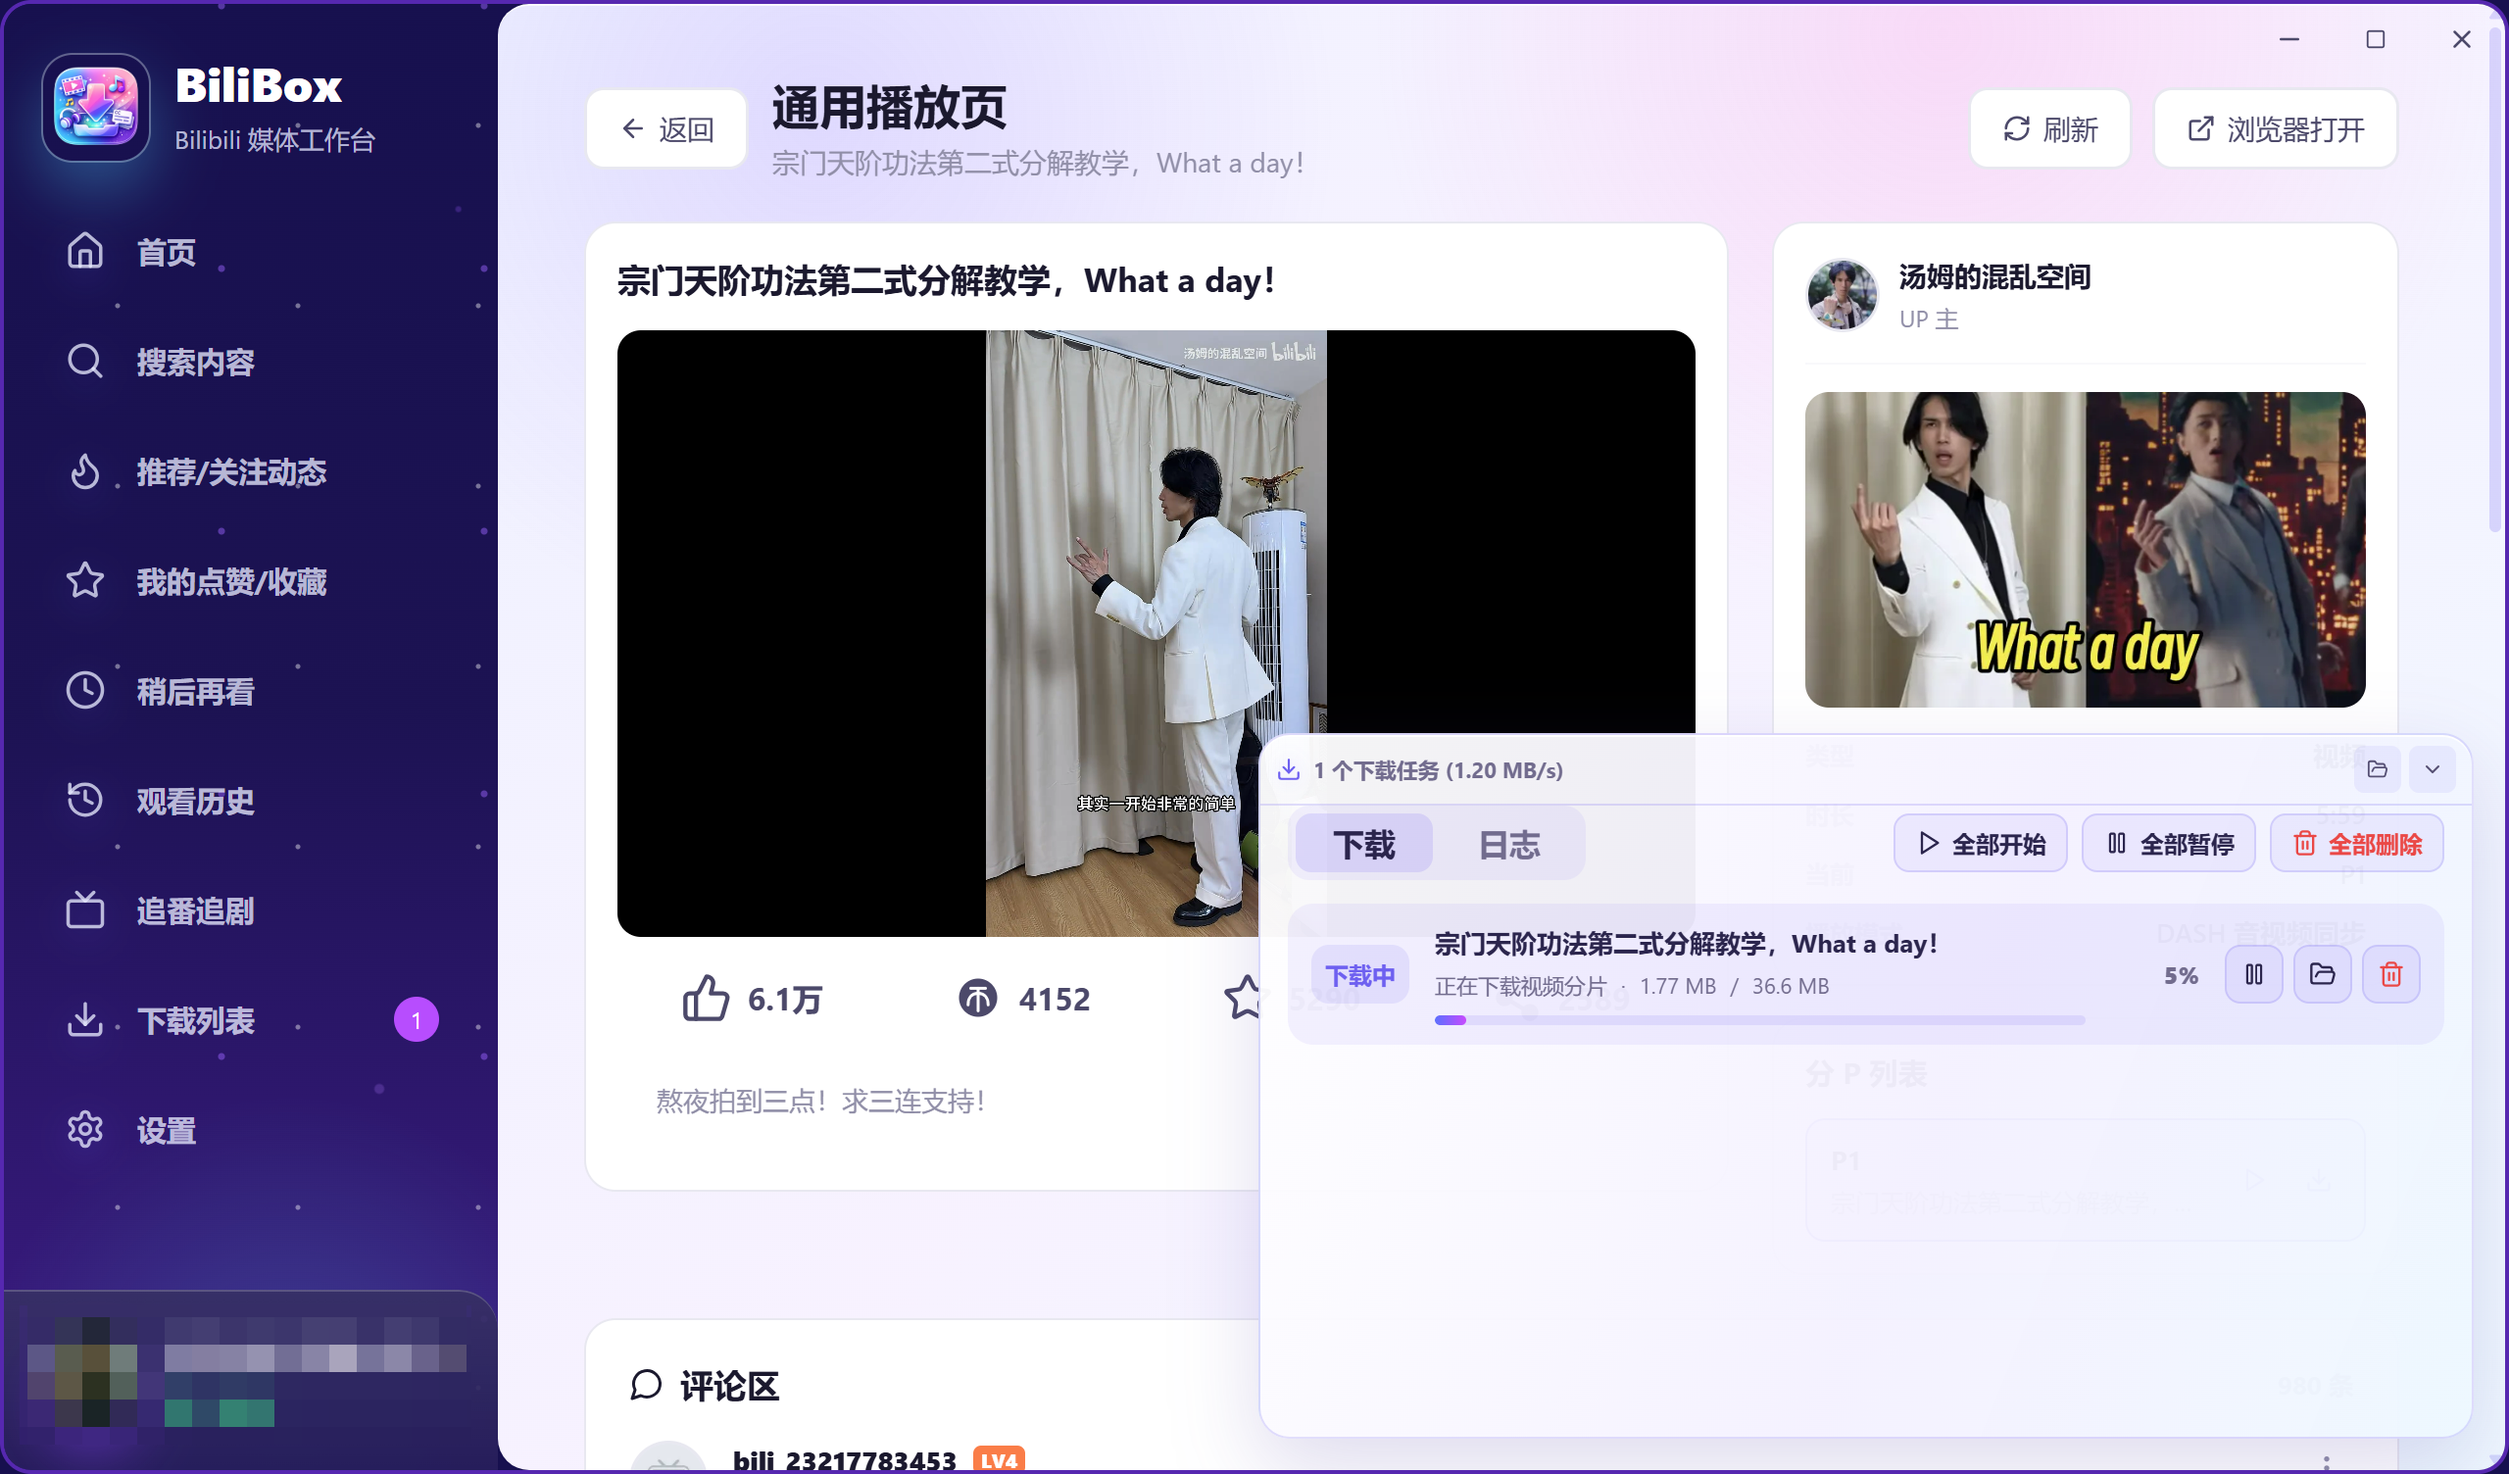
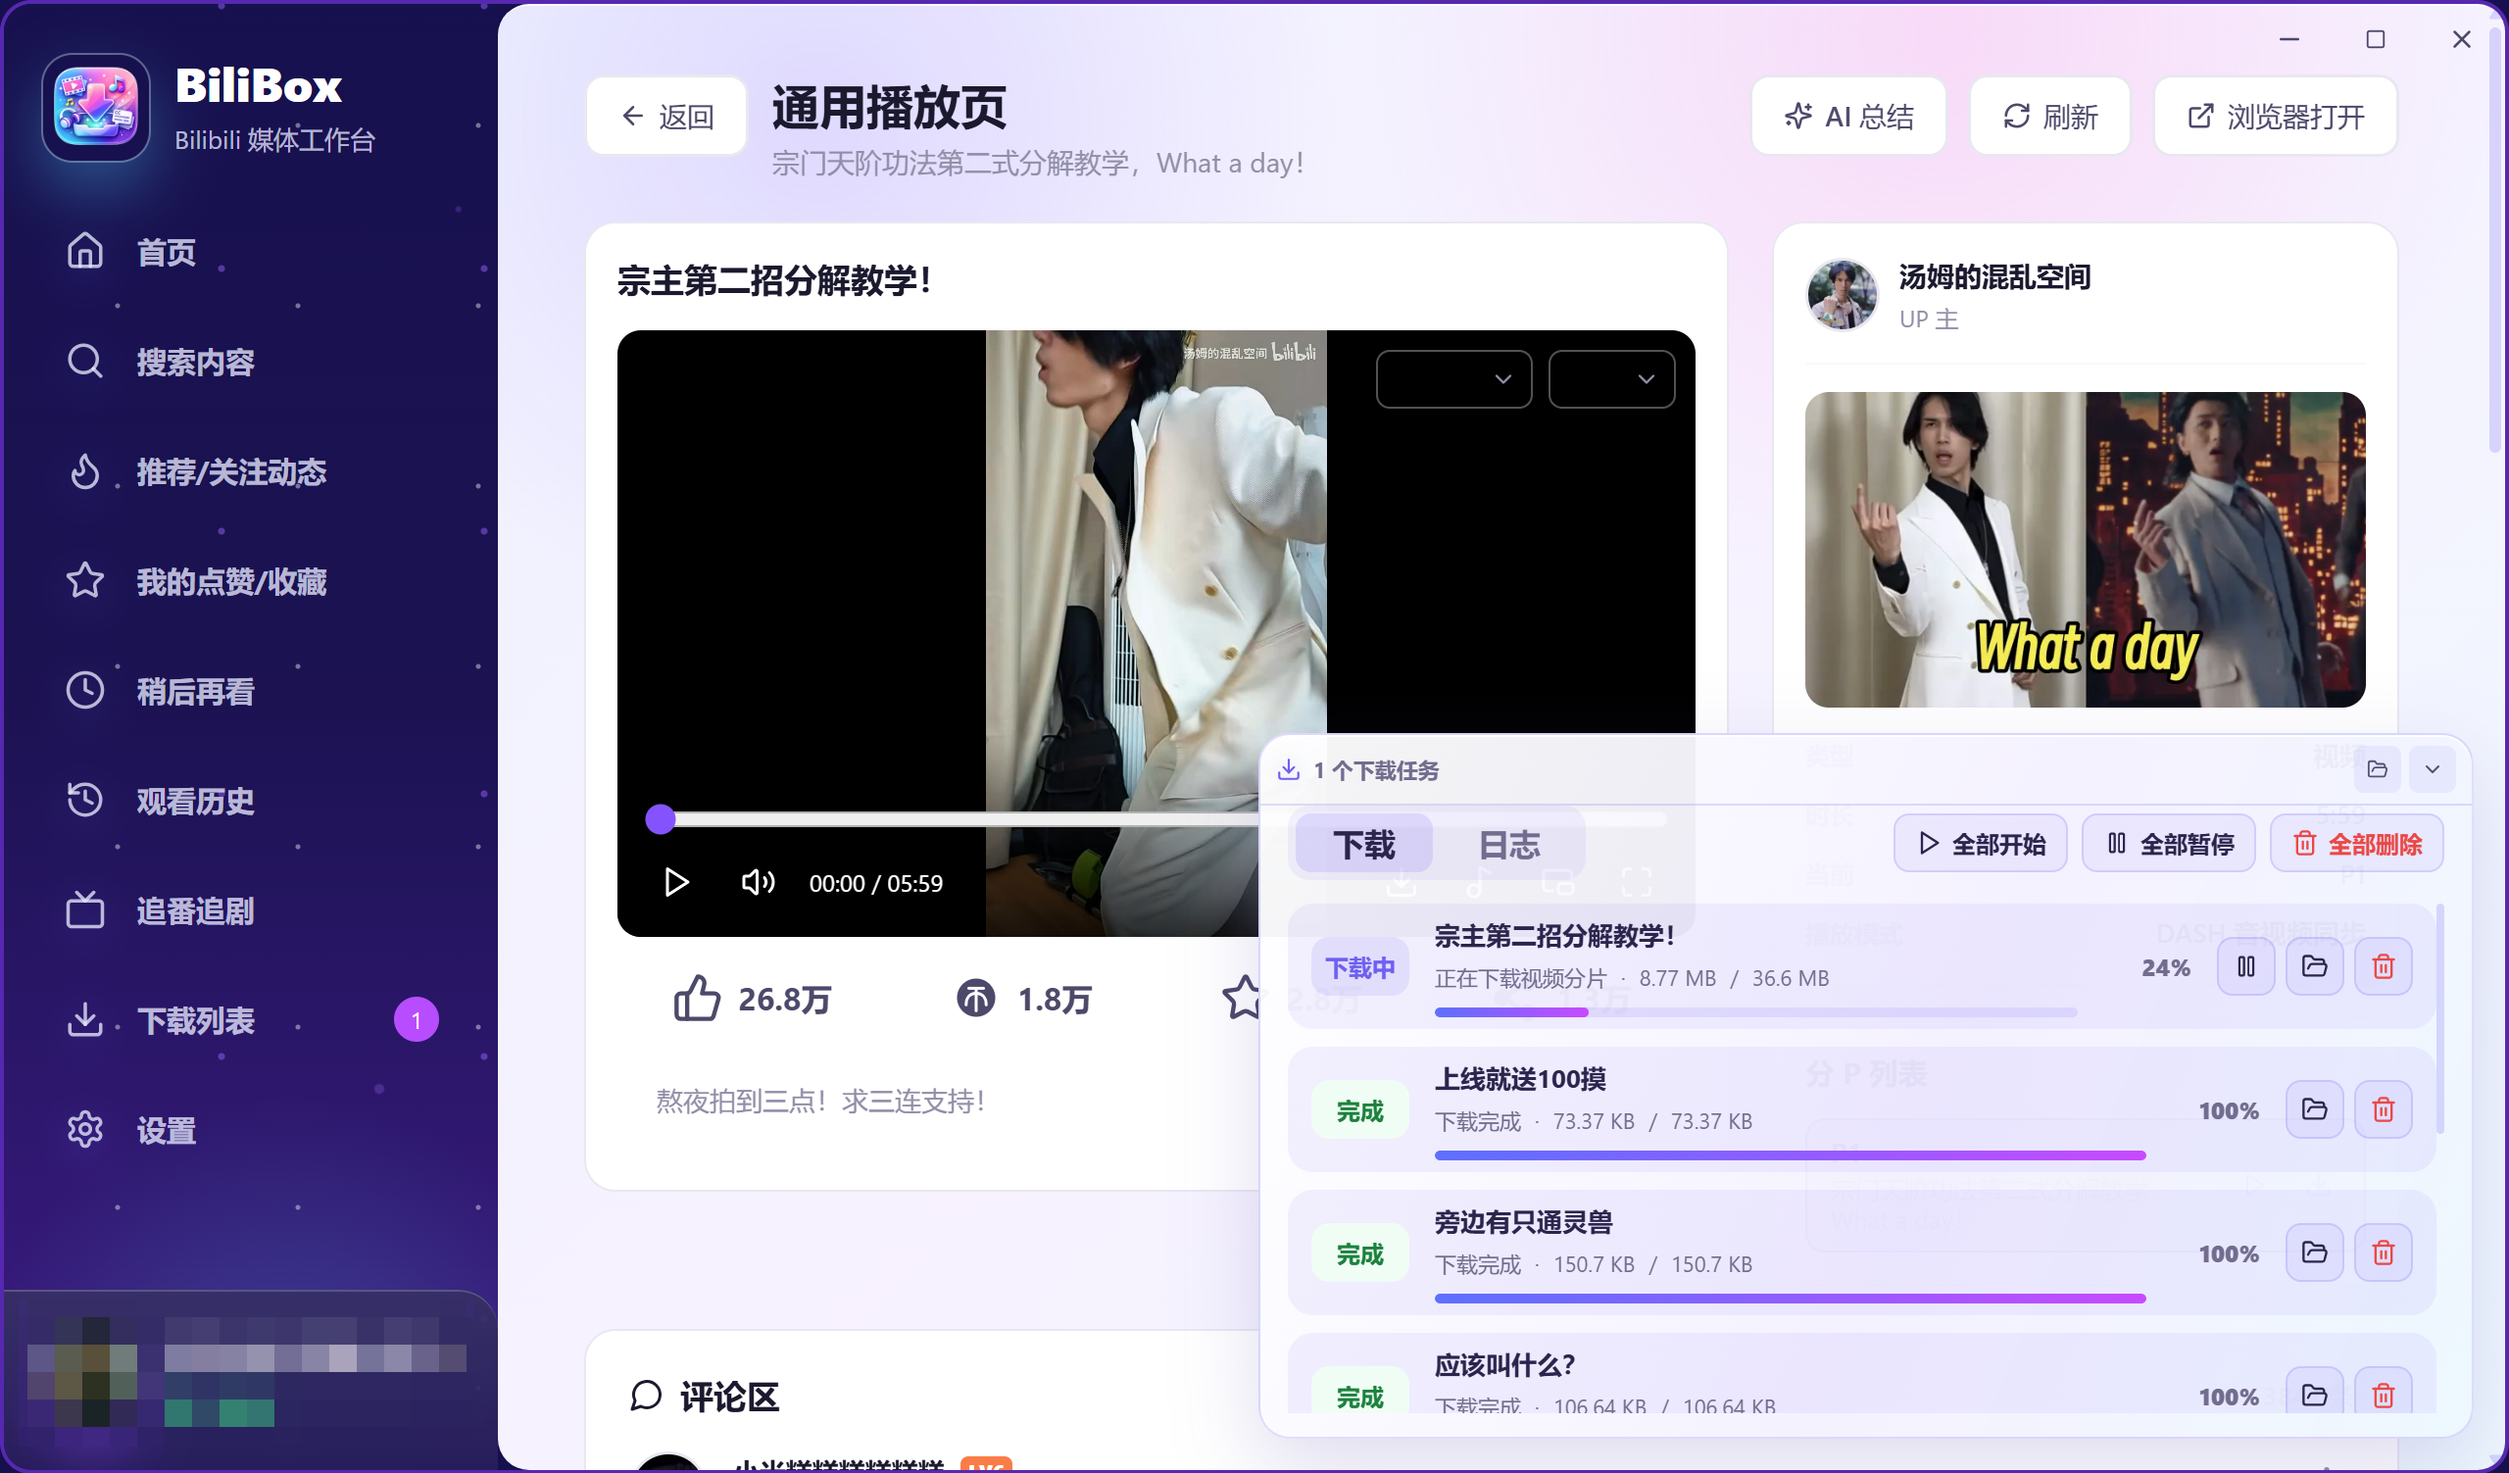
更新 README 加入 AI 总结功能说明并刷新界面截图
- 在「个性化设置」后新增「AI总结」功能说明
- 更新 player / zfzj2 / downloads 截图，新增 AI 总结与设置截图
- 移除已废弃的 settings.png

diff --git a/README.md b/README.md
@@ -1,13 +1,13 @@
 <div align="center">
   <img src="./frontend/src/assets/app-icon.png" width="136" height="136" alt="BiliBox Logo" />
   <h1>BiliBox</h1>
-
   <p>
     一个高颜值、桌面级、开箱即用的 Bilibili 媒体工作台。
   </p>
   <p>
-    <strong>搜索、收藏、稍后再看、观看历史、追番追剧、在线播放与后台下载，一站完成。</strong>
+    <strong>搜索、收藏、稍后再看、观看历史、追番追剧、在线播放、AI总结与后台下载，一站完成。</strong>
   </p>
+
 
   <p>
     <a href="#功能亮点">功能亮点</a>
@@ -78,6 +78,13 @@ BiliBox 不是一个只会粘贴链接的下载器，而是面向日常使用的
 - 亮色、暗色与跟随系统主题
 - 支持一键恢复默认设置，并保留当前账号登录状态
 
+### AI总结
+
+- 一键生成视频内容总结，输出核心观点与按时间戳划分的章节
+- 优先使用官方字幕，无字幕时自动切换本地语音识别兜底
+- 支持自定义提示词模板与多语言输出，结果自动缓存
+- 支持配置多个 AI 供应商与模型
+
 ## 界面预览
 
 ### 首页
@@ -110,6 +117,10 @@ BiliBox 不是一个只会粘贴链接的下载器，而是面向日常使用的
 
 ![Player Preview](./docs/screenshots/player.png)
 
+### AI总结页面
+
+![Player Preview](./docs/screenshots/AI_sum.png)
+
 ### 下载队列
 
 ![Downloads Preview](./docs/screenshots/downloads.png)
@@ -126,7 +137,9 @@ BiliBox 不是一个只会粘贴链接的下载器，而是面向日常使用的
 
 ### 设置
 
-![Settings Preview](./docs/screenshots/settings.png)
+![Settings Preview](./docs/screenshots/settings1.png)
+
+![Settings Preview](./docs/screenshots/settings2.png)
 
 ### 专栏
 
